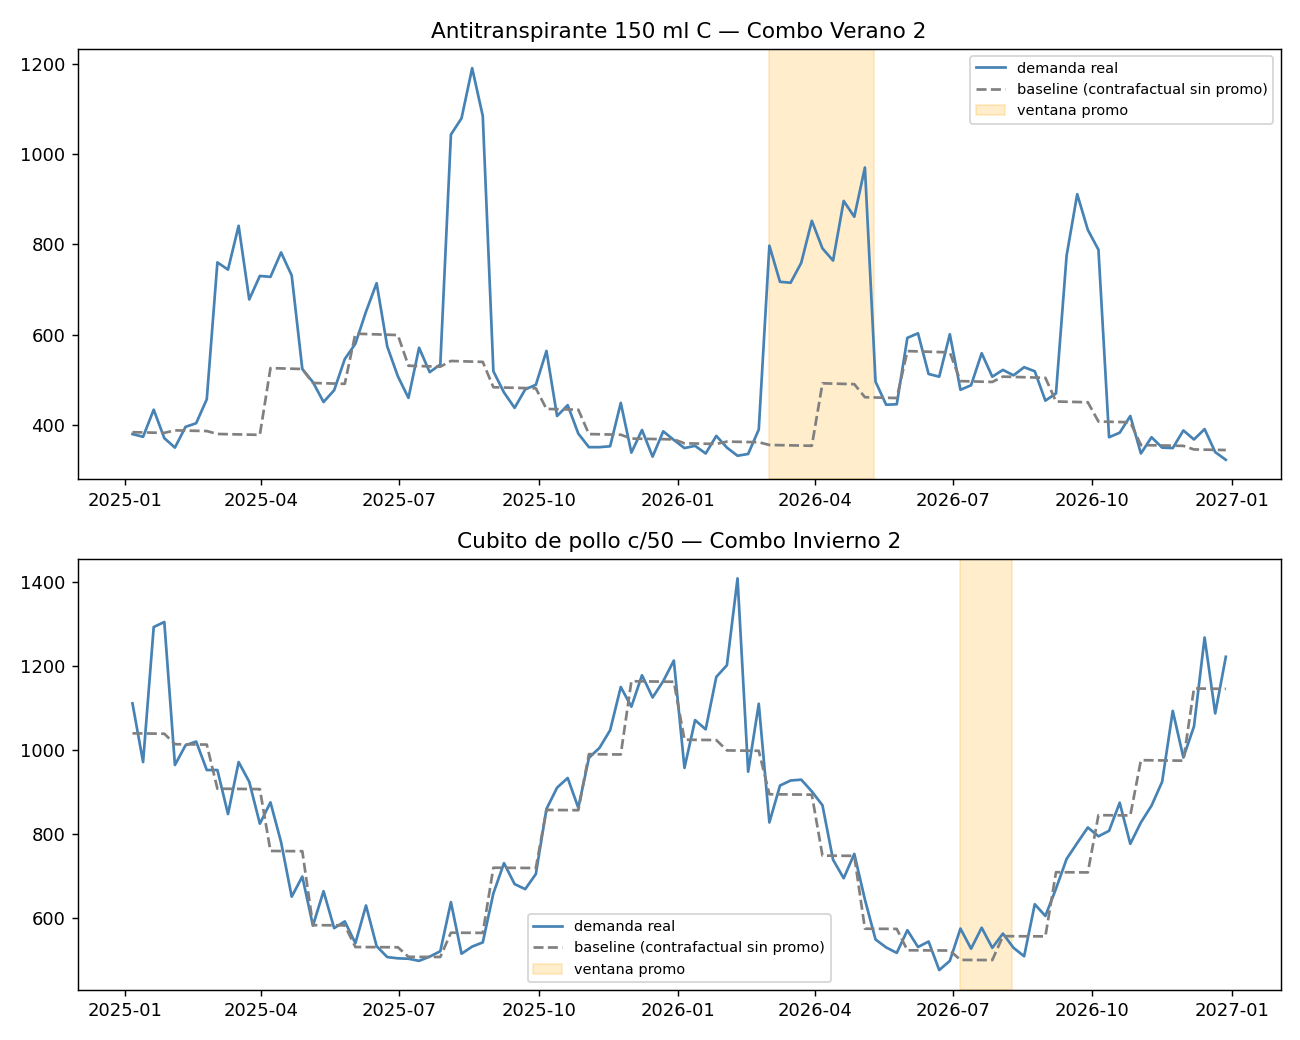
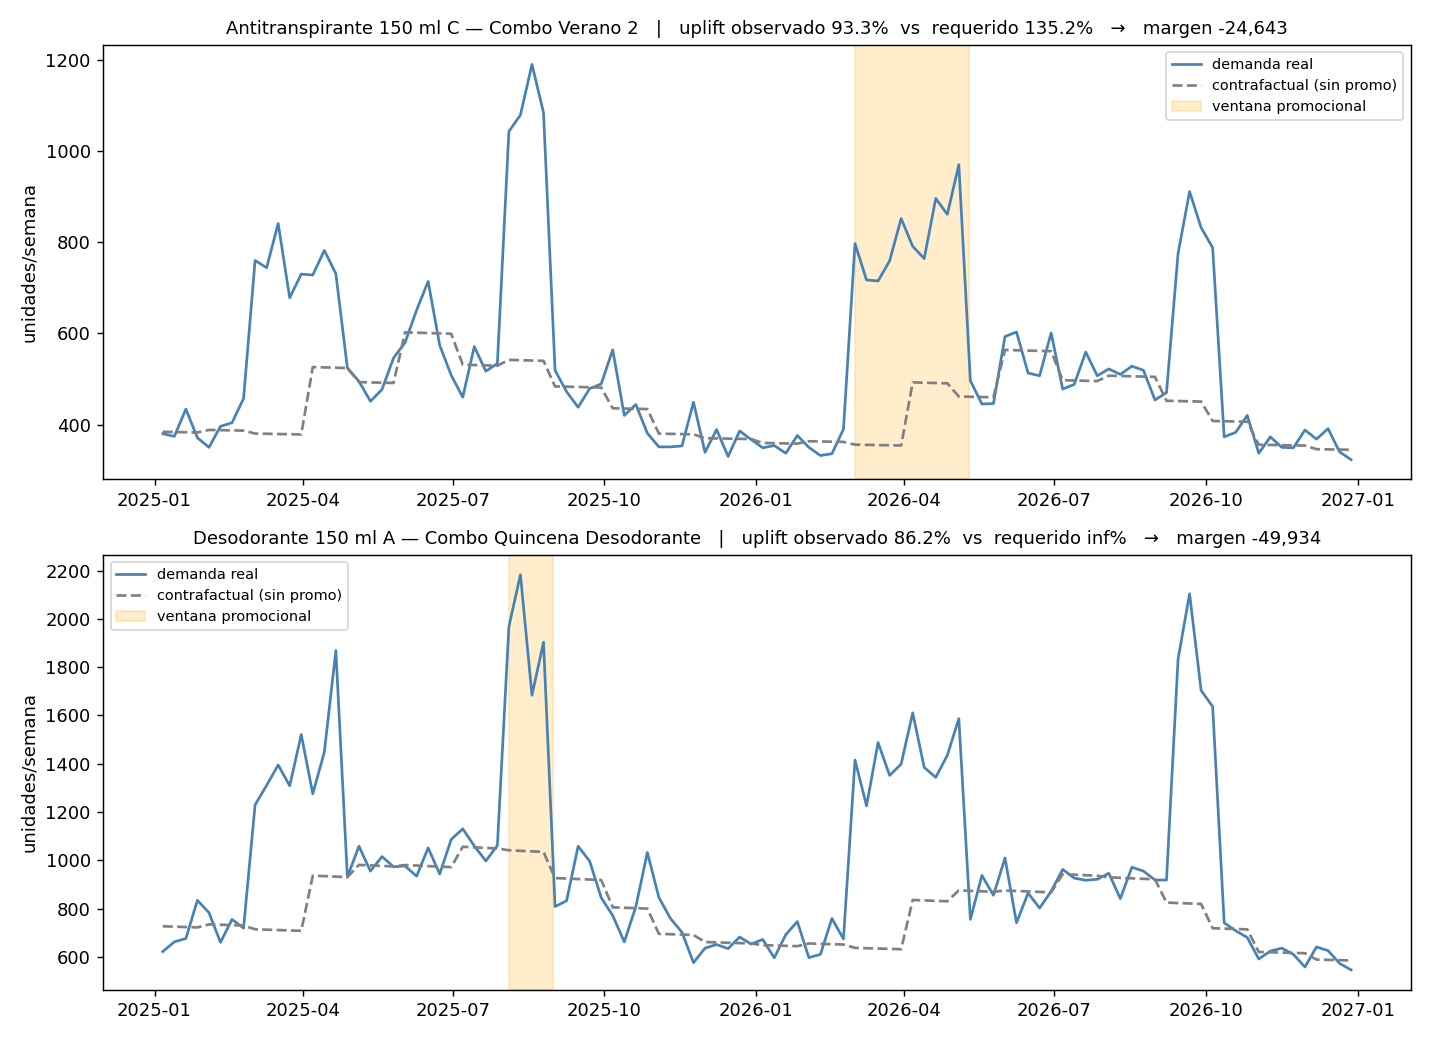
fix(reto-c): elimina metrica invalida y agrega umbral analitico de rentabilidad
La metrica 'margen incremental como % del ingreso incremental' se rompe cuando
el ingreso incremental es negativo: margen negativo / ingreso negativo da un
porcentaje positivo, poniendo las peores promociones arriba del ranking.

La reemplaza por la descomposicion margen_incr = I*(P-C) - A_promo*P*d, que da
el umbral de aprobacion I/A_promo > (1+m)*d/m, reportado como cobertura.

Valida el resultado por dos vias independientes (empirica y analitica): coinciden
dentro de 1.5%. Ese chequeo fue el que revelo el sesgo del costo historico.

diff --git a/src/uplift.py b/src/uplift.py
@@ -1,4 +1,32 @@
-"""Reto C: Uplift promocional -- venta incremental vs. contrafactual (baseline sin promo)."""
+"""Reto C: Uplift promocional — venta incremental y rentabilidad real de cada promoción.
+
+Método: para cada combo se ajusta un modelo estacional (tendencia + mes sobre log(qty))
+entrenado ÚNICAMENTE con semanas sin promoción de ese SKU, y se usa para predecir la
+demanda contrafactual durante la ventana promocional. El uplift es la diferencia.
+
+Sobre la métrica de rentabilidad
+--------------------------------
+El margen incremental se descompone analíticamente como:
+
+    margen_incremental  =  I · (P − C)  −  A_promo · P · d
+                           └─ganancia──┘   └──costo del descuento──┘
+
+    I       = unidades incrementales (vs. contrafactual)
+    A_promo = unidades vendidas dentro del combo
+    P, C, d = precio de lista, costo unitario, profundidad de descuento
+
+De ahí sale el umbral de decisión: la promo es rentable sólo si
+
+    I / A_promo  >  P·d / (P − C)  =  (1+m)·d / m        [m = markup del SKU]
+
+Esta es la métrica que se reporta ("uplift requerido" vs. "uplift observado"), porque es
+comparable entre SKUs y traduce directamente a una decisión de aprobar o no una promo.
+
+NOTA: se descartó deliberadamente una métrica de "margen incremental como % del ingreso
+incremental". Cuando el descuento es profundo y el uplift pequeño, el ingreso incremental
+puede ser negativo, y un margen negativo dividido entre un ingreso negativo da un porcentaje
+POSITIVO — invirtiendo el ranking y poniendo las peores promociones arriba.
+"""
 import numpy as np
 import pandas as pd
 import statsmodels.api as sm
@@ -6,98 +34,129 @@ import matplotlib
 matplotlib.use('Agg')
 import matplotlib.pyplot as plt
 
-from data_prep import load_raw, clean, weekly_demand
+from data_prep import load_raw, clean, weekly_demand, sku_economics, data_path, report_path
 
+# Las dos promociones que se analizan en detalle (mejor y peor caso, ver run_all()).
 PROMOS = [
     dict(sku='Antitranspirante 150 ml C', id_combo=20103.0, nombre='Combo Verano 2'),
-    dict(sku='Cubito de pollo c/50', id_combo=20004.0, nombre='Combo Invierno 2'),
+    dict(sku='Desodorante 150 ml A', id_combo=20402.0, nombre='Combo Quincena Desodorante'),
 ]
 
 
-def fit_baseline_model(wk):
-    """Ajusta un modelo estacional (tendencia + mes) SOLO con semanas sin promoción,
-    y lo usa para predecir la demanda contrafactual (sin promo) en todas las semanas."""
+def fit_baseline(wk):
+    """Modelo estacional entrenado sólo con semanas SIN promoción -> demanda contrafactual."""
     wk = wk.copy()
-    wk['month'] = wk['week'].dt.month
+    wk['month'] = wk.week.dt.month
     wk['t'] = np.arange(len(wk))
     train = wk[wk.promo_share < 0.01]
 
-    X_train = pd.get_dummies(train['month'], prefix='m', drop_first=True).astype(float)
-    X_train.insert(0, 't', train['t'].values)
-    X_train = sm.add_constant(X_train)
-    y_train = np.log(train['qty'].clip(lower=1))
-    model = sm.OLS(y_train.astype(float), X_train.astype(float)).fit()
+    Xtr = pd.get_dummies(train.month, prefix='m', drop_first=True).astype(float)
+    Xtr.insert(0, 't', train.t.values)
+    Xtr = sm.add_constant(Xtr)
+    model = sm.OLS(np.log(train.qty.clip(lower=1)).astype(float), Xtr.astype(float)).fit()
 
-    X_all = pd.get_dummies(wk['month'], prefix='m', drop_first=True).astype(float)
-    X_all.insert(0, 't', wk['t'].values)
-    X_all = sm.add_constant(X_all, has_constant='add')
-    X_all = X_all[X_train.columns]  # mismo orden/columnas
-    wk['baseline_qty'] = np.exp(model.predict(X_all))
+    Xall = pd.get_dummies(wk.month, prefix='m', drop_first=True).astype(float)
+    Xall.insert(0, 't', wk.t.values)
+    Xall = sm.add_constant(Xall, has_constant='add').reindex(columns=Xtr.columns, fill_value=0.0)
+    wk['baseline_qty'] = np.exp(model.predict(Xall))
     return wk, model
 
 
-def promo_window(df, sku, id_combo):
-    d = df[(df.product_name == sku) & (df.id_combo == id_combo)]
-    return d.date.min(), d.date.max()
-
-
 def estimate_uplift(df, sku, id_combo, nombre):
-    wk = weekly_demand(df, sku)
-    wk, model = fit_baseline_model(wk)
+    promo_rows = df[(df.product_name == sku) & (df.id_combo == id_combo) & (~df.is_cancelled)]
+    start, end = promo_rows.date.min(), promo_rows.date.max()
 
-    start, end = promo_window(df, sku, id_combo)
-    promo_weeks = wk[(wk.week >= start - pd.Timedelta(days=6)) & (wk.week <= end)]
+    # Economía anclada a la ventana de la promo: el costo unitario sube ~5-6%/año, así que usar
+    # la mediana global del SKU sesgaría el margen de las promos de 2025 frente a las de 2026.
+    econ = sku_economics(df, sku, start=start, end=end)
+    P, C = econ['list_price'], econ['unit_cost']
+    d = float(promo_rows.discount_imputed.mean())
+    A_promo = int(promo_rows.sell_in_quantity.sum())
 
-    actual_units = promo_weeks.qty.sum()
-    baseline_units = promo_weeks.baseline_qty.sum()
-    incr_units = actual_units - baseline_units
+    wk, _ = fit_baseline(weekly_demand(df, sku))
+    win = wk[(wk.week >= start - pd.Timedelta(days=6)) & (wk.week <= end)]
 
-    # precios: real (transacciones del periodo) vs. precio de referencia no-promo (list/organic reciente)
-    d_period = df[(df.product_name == sku) & (df.date >= start) & (df.date <= end) & (~df.is_cancelled)]
-    actual_revenue = d_period.sell_in_amount.sum()
-    unit_cost = df[(df.product_name == sku) & (df.sell_in_quantity > 0)].unit_cost.median()
+    actual = win.qty.sum()
+    baseline = win.baseline_qty.sum()
+    I = actual - baseline
+    promo_share_window = A_promo / actual if actual else np.nan
 
-    ref_price = df[(df.product_name == sku) & (~df.is_promo) & (~df.is_cancelled) & (~df.is_gift)
-                    & (df.date < start)].tail(3000).unit_price.median()
-
-    baseline_revenue = baseline_units * ref_price
-    incr_revenue = actual_revenue - baseline_revenue
-
-    actual_margin = actual_revenue - unit_cost * actual_units
-    baseline_margin = baseline_revenue - unit_cost * baseline_units
+    # margen real observado en la ventana vs. margen del contrafactual (todo a precio de lista)
+    win_rows = df[(df.product_name == sku) & (df.date >= start) & (df.date <= end) & (~df.is_cancelled)]
+    actual_revenue = win_rows.sell_in_amount.sum()
+    actual_margin = actual_revenue - C * actual
+    baseline_margin = baseline * (P - C)
     incr_margin = actual_margin - baseline_margin
 
+    # umbral analítico de rentabilidad
+    unit_margin = P - C
+    discount_per_unit = P * d
+    required_I = A_promo * discount_per_unit / unit_margin if unit_margin > 0 else np.inf
+    sells_below_cost = P * (1 - d) < C
+    if sells_below_cost:
+        required_uplift_pct = np.inf
+        ratio = 0.0
+    else:
+        required_uplift_pct = required_I / baseline * 100
+        ratio = I / required_I if required_I > 0 else np.nan
+
     return dict(
-        sku=sku, promo=nombre, inicio=start.date(), fin=end.date(),
-        semanas=len(promo_weeks),
-        actual_units=round(actual_units), baseline_units=round(baseline_units),
-        incremental_units=round(incr_units), uplift_pct=round(incr_units / baseline_units * 100, 1),
-        ref_price=round(ref_price, 2), actual_revenue=round(actual_revenue),
-        incremental_revenue=round(incr_revenue), incremental_margin=round(incr_margin),
-        margin_pct_of_incr_rev=round(incr_margin / incr_revenue * 100, 1) if incr_revenue else np.nan
-    ), wk, promo_weeks
+        sku=sku, promo=nombre, inicio=start.date(), fin=end.date(), semanas=len(win),
+        descuento=round(d, 3),
+        descuento_equilibrio=round(econ['breakeven_discount'], 3),
+        vende_bajo_costo=bool(sells_below_cost),
+        unidades_promo=A_promo,
+        unidades_reales=int(round(actual)),
+        unidades_baseline=int(round(baseline)),
+        unidades_incrementales=int(round(I)),
+        uplift_obs_pct=round(I / baseline * 100, 1),
+        uplift_req_pct=round(required_uplift_pct, 1) if np.isfinite(required_uplift_pct) else np.inf,
+        cobertura=round(ratio, 2),                       # >1 => promo rentable
+        margen_incremental=int(round(incr_margin)),
+        ganancia_por_volumen=int(round(I * unit_margin)),
+        costo_del_descuento=int(round(A_promo * discount_per_unit)),
+        share_promo_en_ventana=round(promo_share_window, 3),
+    ), wk, win
+
+
+def run_all(df=None, save=True):
+    df = clean(load_raw()) if df is None else df
+    combos = df.dropna(subset=['id_combo'])[['product_name', 'id_combo', 'combo']].drop_duplicates()
+    rows = [estimate_uplift(df, r.product_name, r.id_combo, r.combo)[0] for _, r in combos.iterrows()]
+    out = pd.DataFrame(rows).sort_values('cobertura', ascending=False).reset_index(drop=True)
+    if save:
+        out.to_csv(data_path("reto_c_all_combos.csv"), index=False)
+    return out
+
+
+def plot_promos(df, promos=PROMOS, save=True):
+    fig, axes = plt.subplots(len(promos), 1, figsize=(11, 8))
+    results = []
+    for ax, p in zip(np.atleast_1d(axes), promos):
+        res, wk, win = estimate_uplift(df, p['sku'], p['id_combo'], p['nombre'])
+        results.append(res)
+        ax.plot(wk.week, wk.qty, color='steelblue', label='demanda real')
+        ax.plot(wk.week, wk.baseline_qty, color='gray', ls='--', label='contrafactual (sin promo)')
+        ax.axvspan(win.week.min(), win.week.max() + pd.Timedelta(days=6),
+                   color='orange', alpha=0.2, label='ventana promocional')
+        ax.set_title(f"{p['sku']} — {p['nombre']}   |   uplift observado {res['uplift_obs_pct']}%  vs  "
+                     f"requerido {res['uplift_req_pct']}%   →   margen {res['margen_incremental']:+,}",
+                     fontsize=10)
+        ax.set_ylabel('unidades/semana')
+        ax.legend(fontsize=8)
+    plt.tight_layout()
+    if save:
+        plt.savefig(report_path("reto_c_uplift.png"), dpi=130)
+    return pd.DataFrame(results)
 
 
 if __name__ == "__main__":
+    pd.set_option('display.width', 250)
     df = clean(load_raw())
-    results = []
-    fig, axes = plt.subplots(len(PROMOS), 1, figsize=(10, 8))
-    for i, p in enumerate(PROMOS):
-        res, wk, promo_weeks = estimate_uplift(df, p['sku'], p['id_combo'], p['nombre'])
-        results.append(res)
-        print(res)
-
-        ax = axes[i]
-        ax.plot(wk.week, wk.qty, label='demanda real', color='steelblue')
-        ax.plot(wk.week, wk.baseline_qty, label='baseline (contrafactual sin promo)', color='gray', ls='--')
-        ax.axvspan(promo_weeks.week.min(), promo_weeks.week.max() + pd.Timedelta(days=6),
-                   color='orange', alpha=0.2, label='ventana promo')
-        ax.set_title(f"{p['sku']} — {p['nombre']}")
-        ax.legend(fontsize=8)
-
-    plt.tight_layout()
-    plt.savefig("report/reto_c_uplift.png", dpi=130)
-
-    out = pd.DataFrame(results)
-    out.to_csv("data/reto_c_summary.csv", index=False)
-    print("\n", out.to_string(index=False))
+    detail = plot_promos(df)
+    detail.to_csv(data_path("reto_c_summary.csv"), index=False)
+    print(detail.T.to_string())
+    print("\n=== Las 19 promociones, ordenadas por cobertura (uplift obtenido / uplift necesario) ===")
+    allc = run_all(df)
+    print(allc[['sku', 'promo', 'descuento', 'vende_bajo_costo', 'uplift_obs_pct',
+                'uplift_req_pct', 'cobertura', 'margen_incremental']].to_string(index=False))
